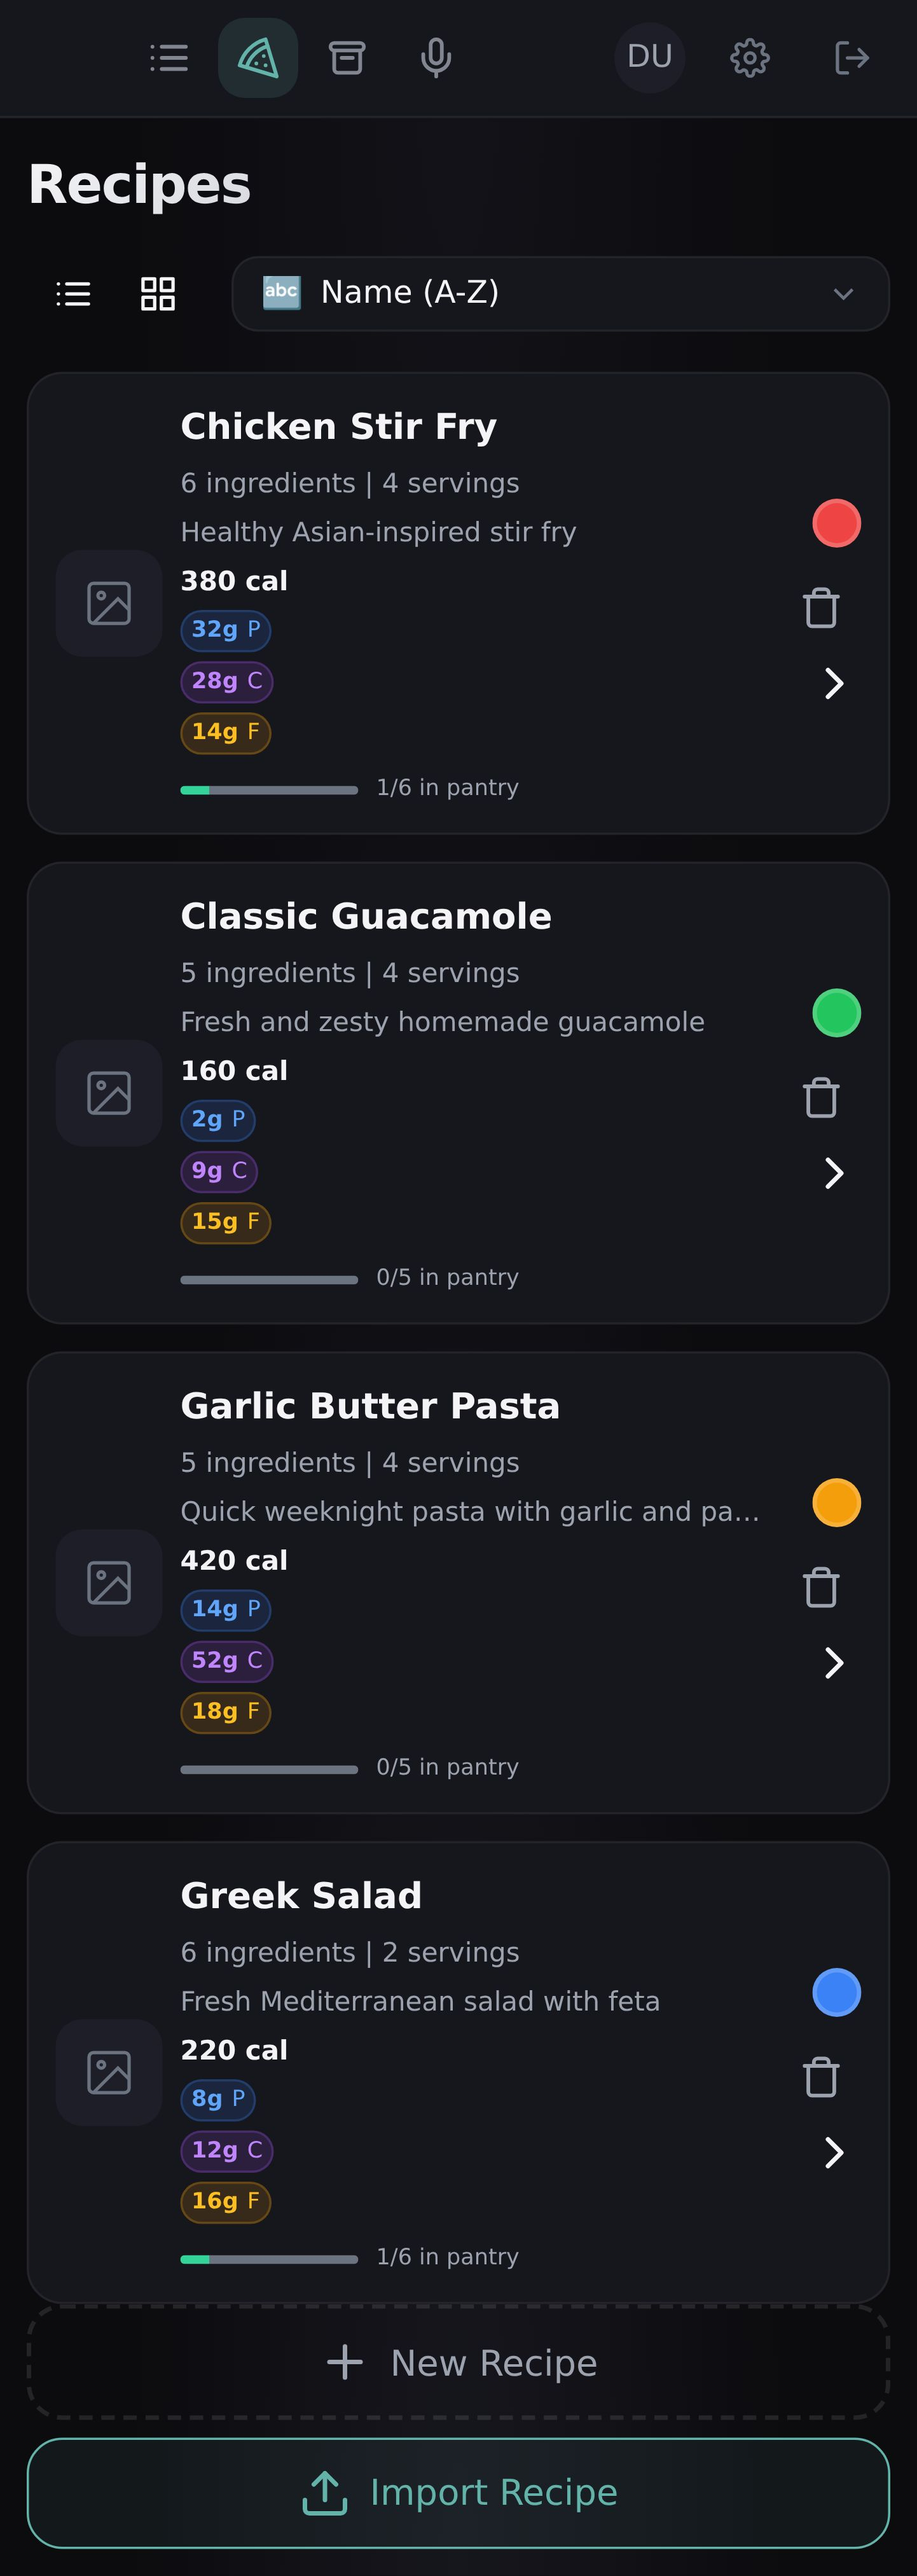
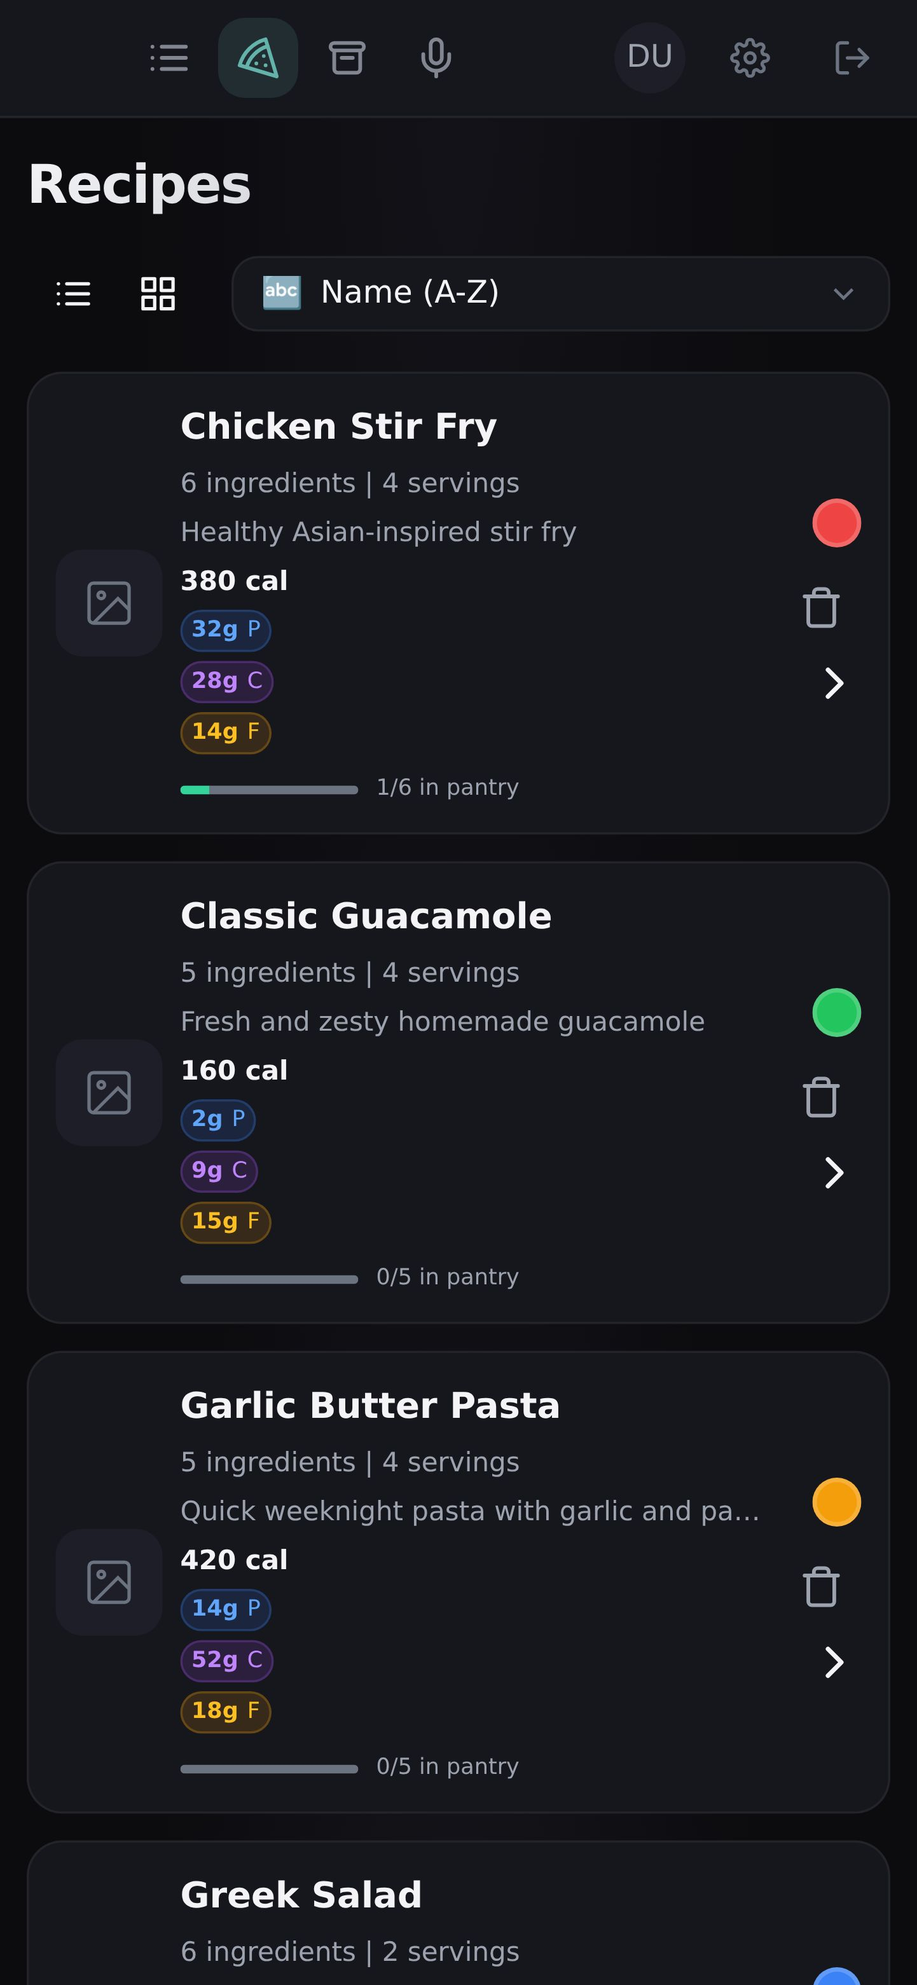
Improve README screenshots with consistent sizing and smoother GIFs
- Exclude docs/images/ from large file check in pre-commit
- Use HTML table with fixed 250px width for consistent display
- Take viewport-sized screenshots (not full-page) for consistency
- Add pauses at top/bottom of scroll GIFs (1.2s each) for visibility
- Optimize GIF encoding: 480px width, 10fps, 192 colors (~2-3MB each)

🤖 Generated with [Claude Code](https://claude.com/claude-code)

diff --git a/web/e2e/readme-media.spec.ts b/web/e2e/readme-media.spec.ts
@@ -159,25 +159,26 @@ async function recordScrollVideo(
   const steps = 60; // ~2 seconds at 30fps
   const stepSize = scrollDistance / steps;
 
-  // Pause at top
-  await page.waitForTimeout(500);
+  // Pause at top so viewers can see the initial state
+  await page.waitForTimeout(1200);
 
+  // Smooth scroll to bottom (~2 seconds)
   for (let i = 0; i < steps; i++) {
     await page.evaluate((y) => window.scrollTo(0, y), stepSize * (i + 1));
-    await page.waitForTimeout(33); // ~30fps
+    await page.waitForTimeout(35);
   }
 
-  // Pause at bottom
-  await page.waitForTimeout(800);
+  // Pause at bottom so viewers can see the end
+  await page.waitForTimeout(1200);
 
-  // Scroll back to top (faster)
+  // Scroll back to top
   for (let i = steps; i >= 0; i--) {
     await page.evaluate((y) => window.scrollTo(0, y), stepSize * i);
-    await page.waitForTimeout(20);
+    await page.waitForTimeout(25);
   }
 
-  // Pause at top again
-  await page.waitForTimeout(500);
+  // Pause at top again before loop restarts
+  await page.waitForTimeout(800);
 
   // Close to save video
   await page.close();
@@ -234,9 +235,9 @@ test.describe('README Media Generation', () => {
       await page.waitForLoadState('networkidle');
       await page.waitForTimeout(500);
 
-      // Take full-page screenshot
+      // Take viewport-sized screenshot (412x892) for consistent dimensions
       const screenshotPath = path.join(OUTPUT_DIR, `${pageConfig.name}-mobile.jpg`);
-      await page.screenshot({ path: screenshotPath, fullPage: true });
+      await page.screenshot({ path: screenshotPath, fullPage: false });
 
       // Check if page needs scroll video
       const pageHeight = await page.evaluate(() => document.body.scrollHeight);

diff --git a/README.md b/README.md
@@ -4,13 +4,28 @@ Self-hosted shopping and meal planning app with voice input, recipe management, 
 
 ## Screenshots
 
-| Lists | Grocery List | Task List |
-|:---:|:---:|:---:|
-| ![Lists](docs/images/lists-mobile.jpg) | ![Grocery List](docs/images/grocery-list-mobile.gif) | ![Task List](docs/images/task-list-mobile.gif) |
-
-| Recipes | Recipe Detail | Pantry |
-|:---:|:---:|:---:|
-| ![Recipes](docs/images/recipes-mobile.gif) | ![Recipe Detail](docs/images/recipe-detail-mobile.gif) | ![Pantry](docs/images/pantry-mobile.gif) |
+<table>
+  <tr>
+    <td align="center"><strong>Lists</strong></td>
+    <td align="center"><strong>Grocery List</strong></td>
+    <td align="center"><strong>Task List</strong></td>
+  </tr>
+  <tr>
+    <td><img src="docs/images/lists-mobile.jpg" width="250"></td>
+    <td><img src="docs/images/grocery-list-mobile.gif" width="250"></td>
+    <td><img src="docs/images/task-list-mobile.gif" width="250"></td>
+  </tr>
+  <tr>
+    <td align="center"><strong>Recipes</strong></td>
+    <td align="center"><strong>Recipe Detail</strong></td>
+    <td align="center"><strong>Pantry</strong></td>
+  </tr>
+  <tr>
+    <td><img src="docs/images/recipes-mobile.gif" width="250"></td>
+    <td><img src="docs/images/recipe-detail-mobile.gif" width="250"></td>
+    <td><img src="docs/images/pantry-mobile.gif" width="250"></td>
+  </tr>
+</table>
 
 *Dark theme, mobile-first PWA*
 
